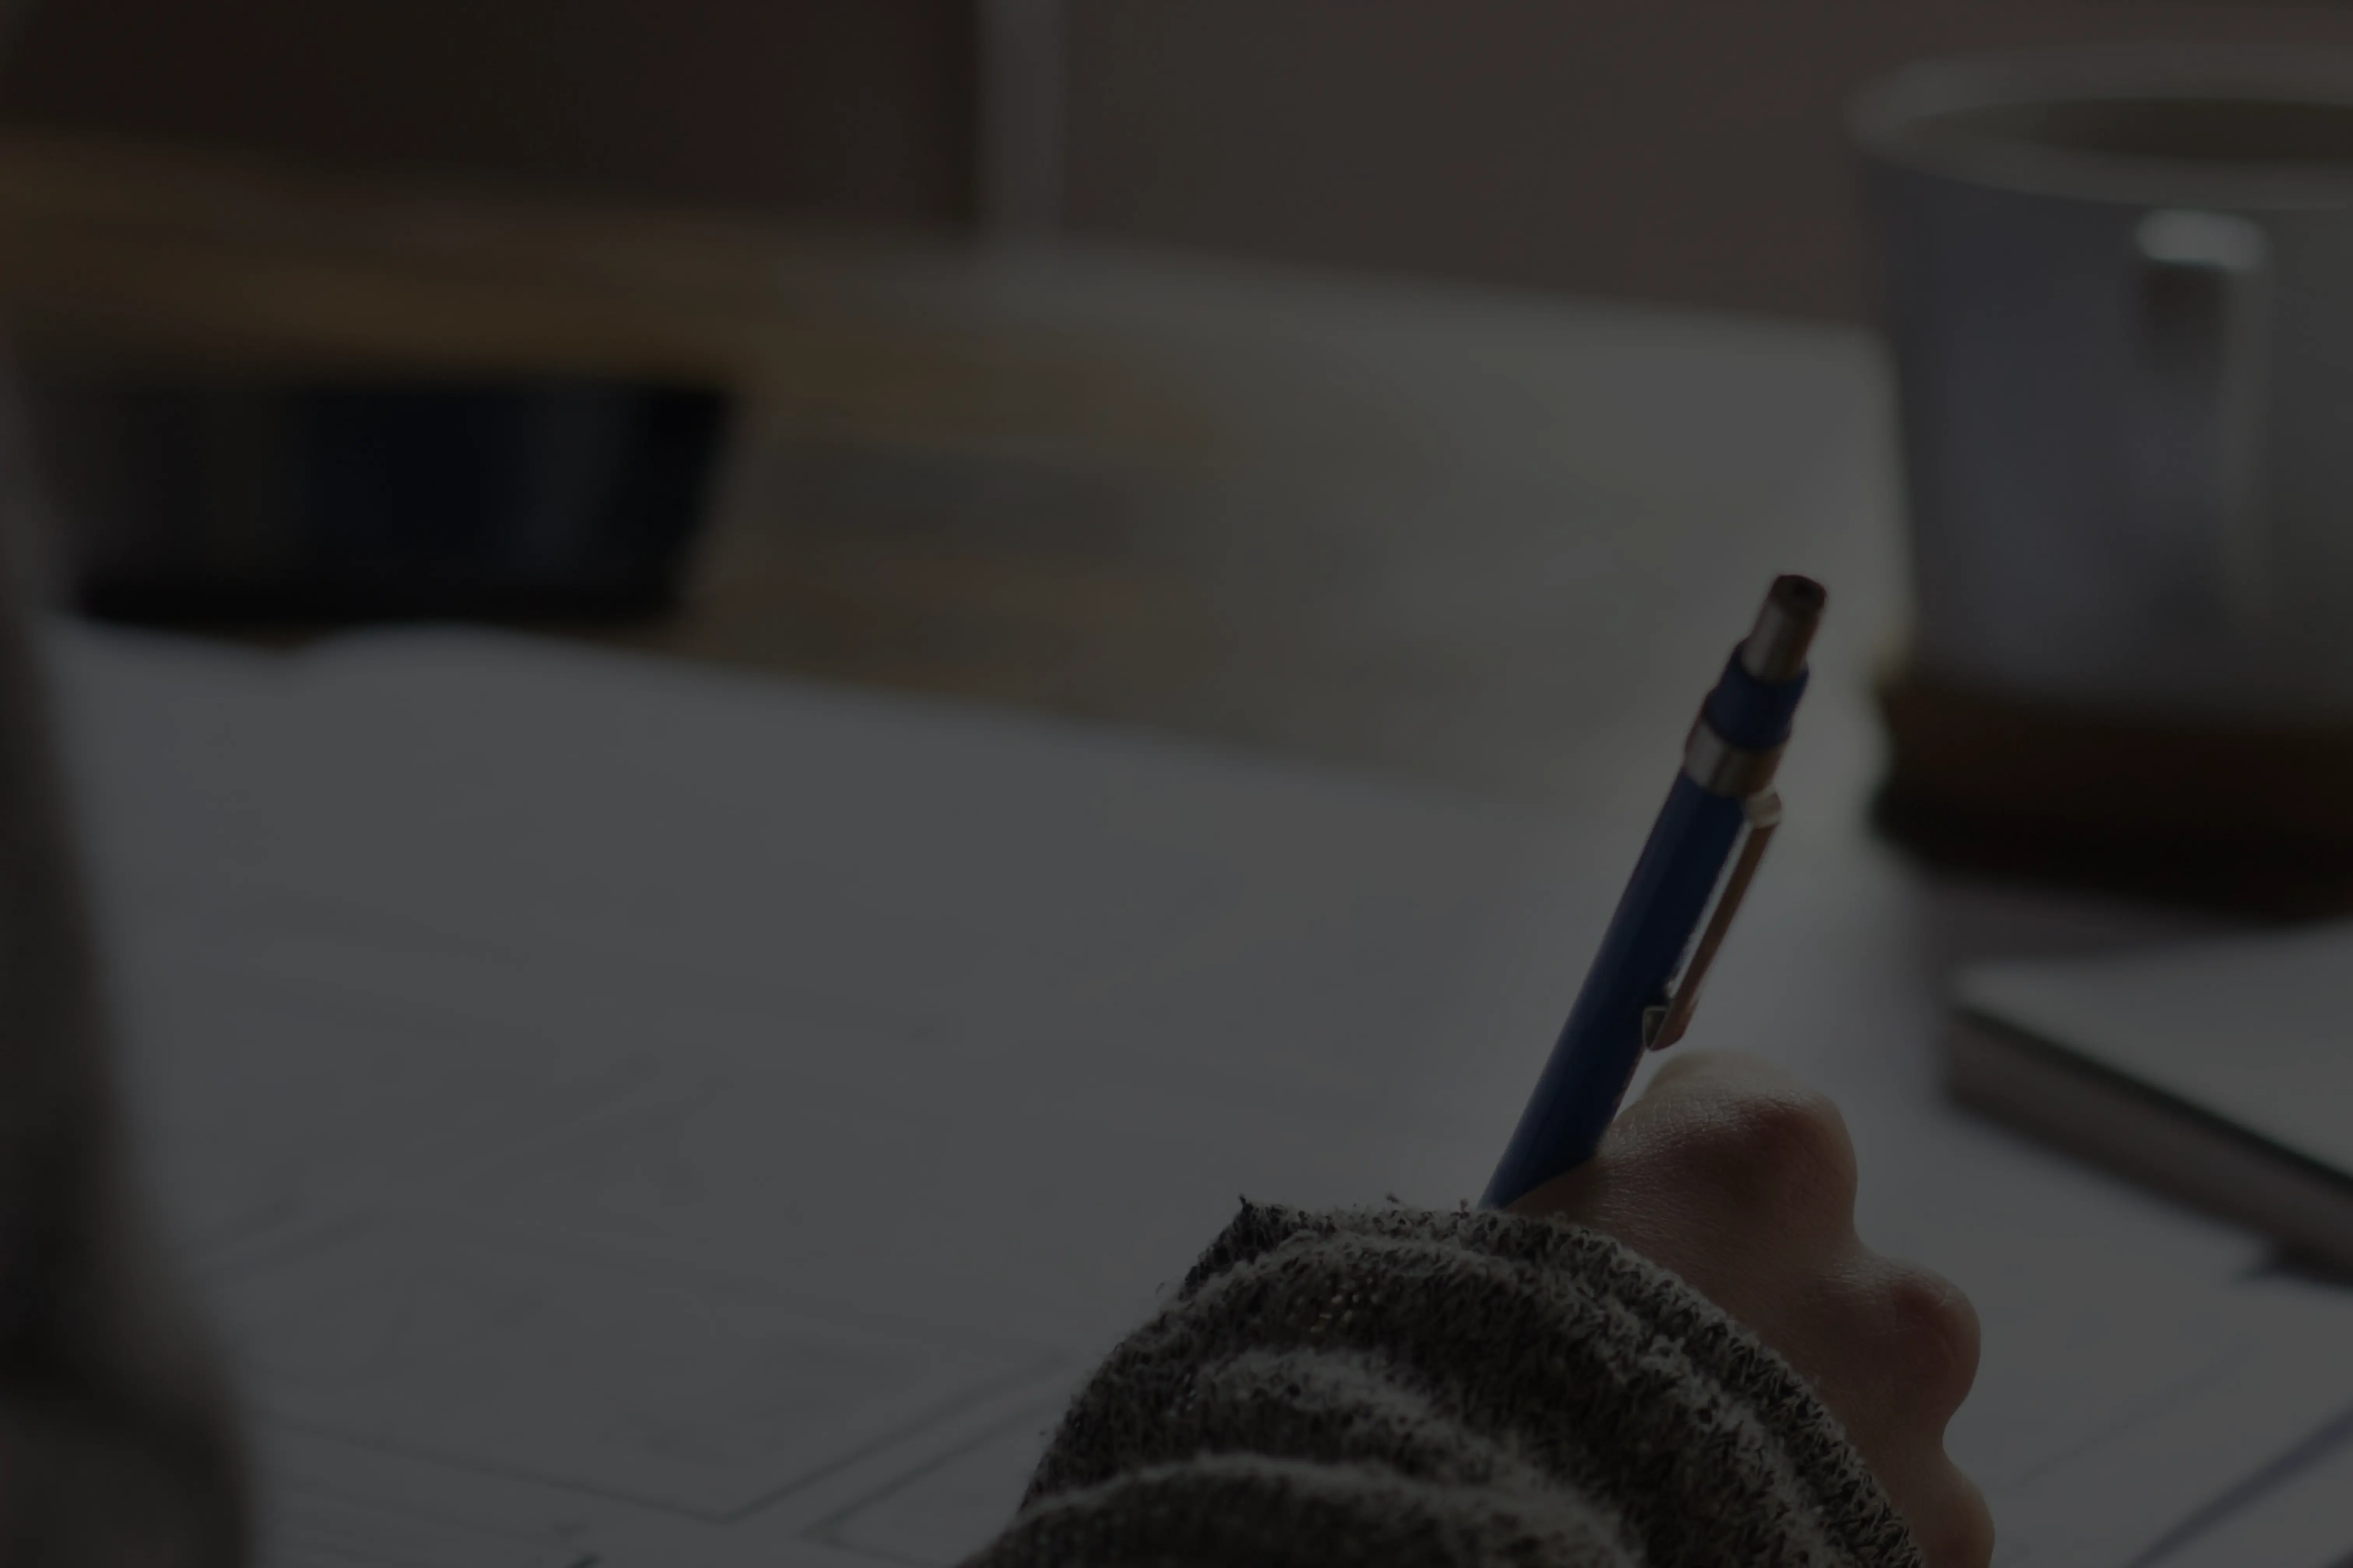
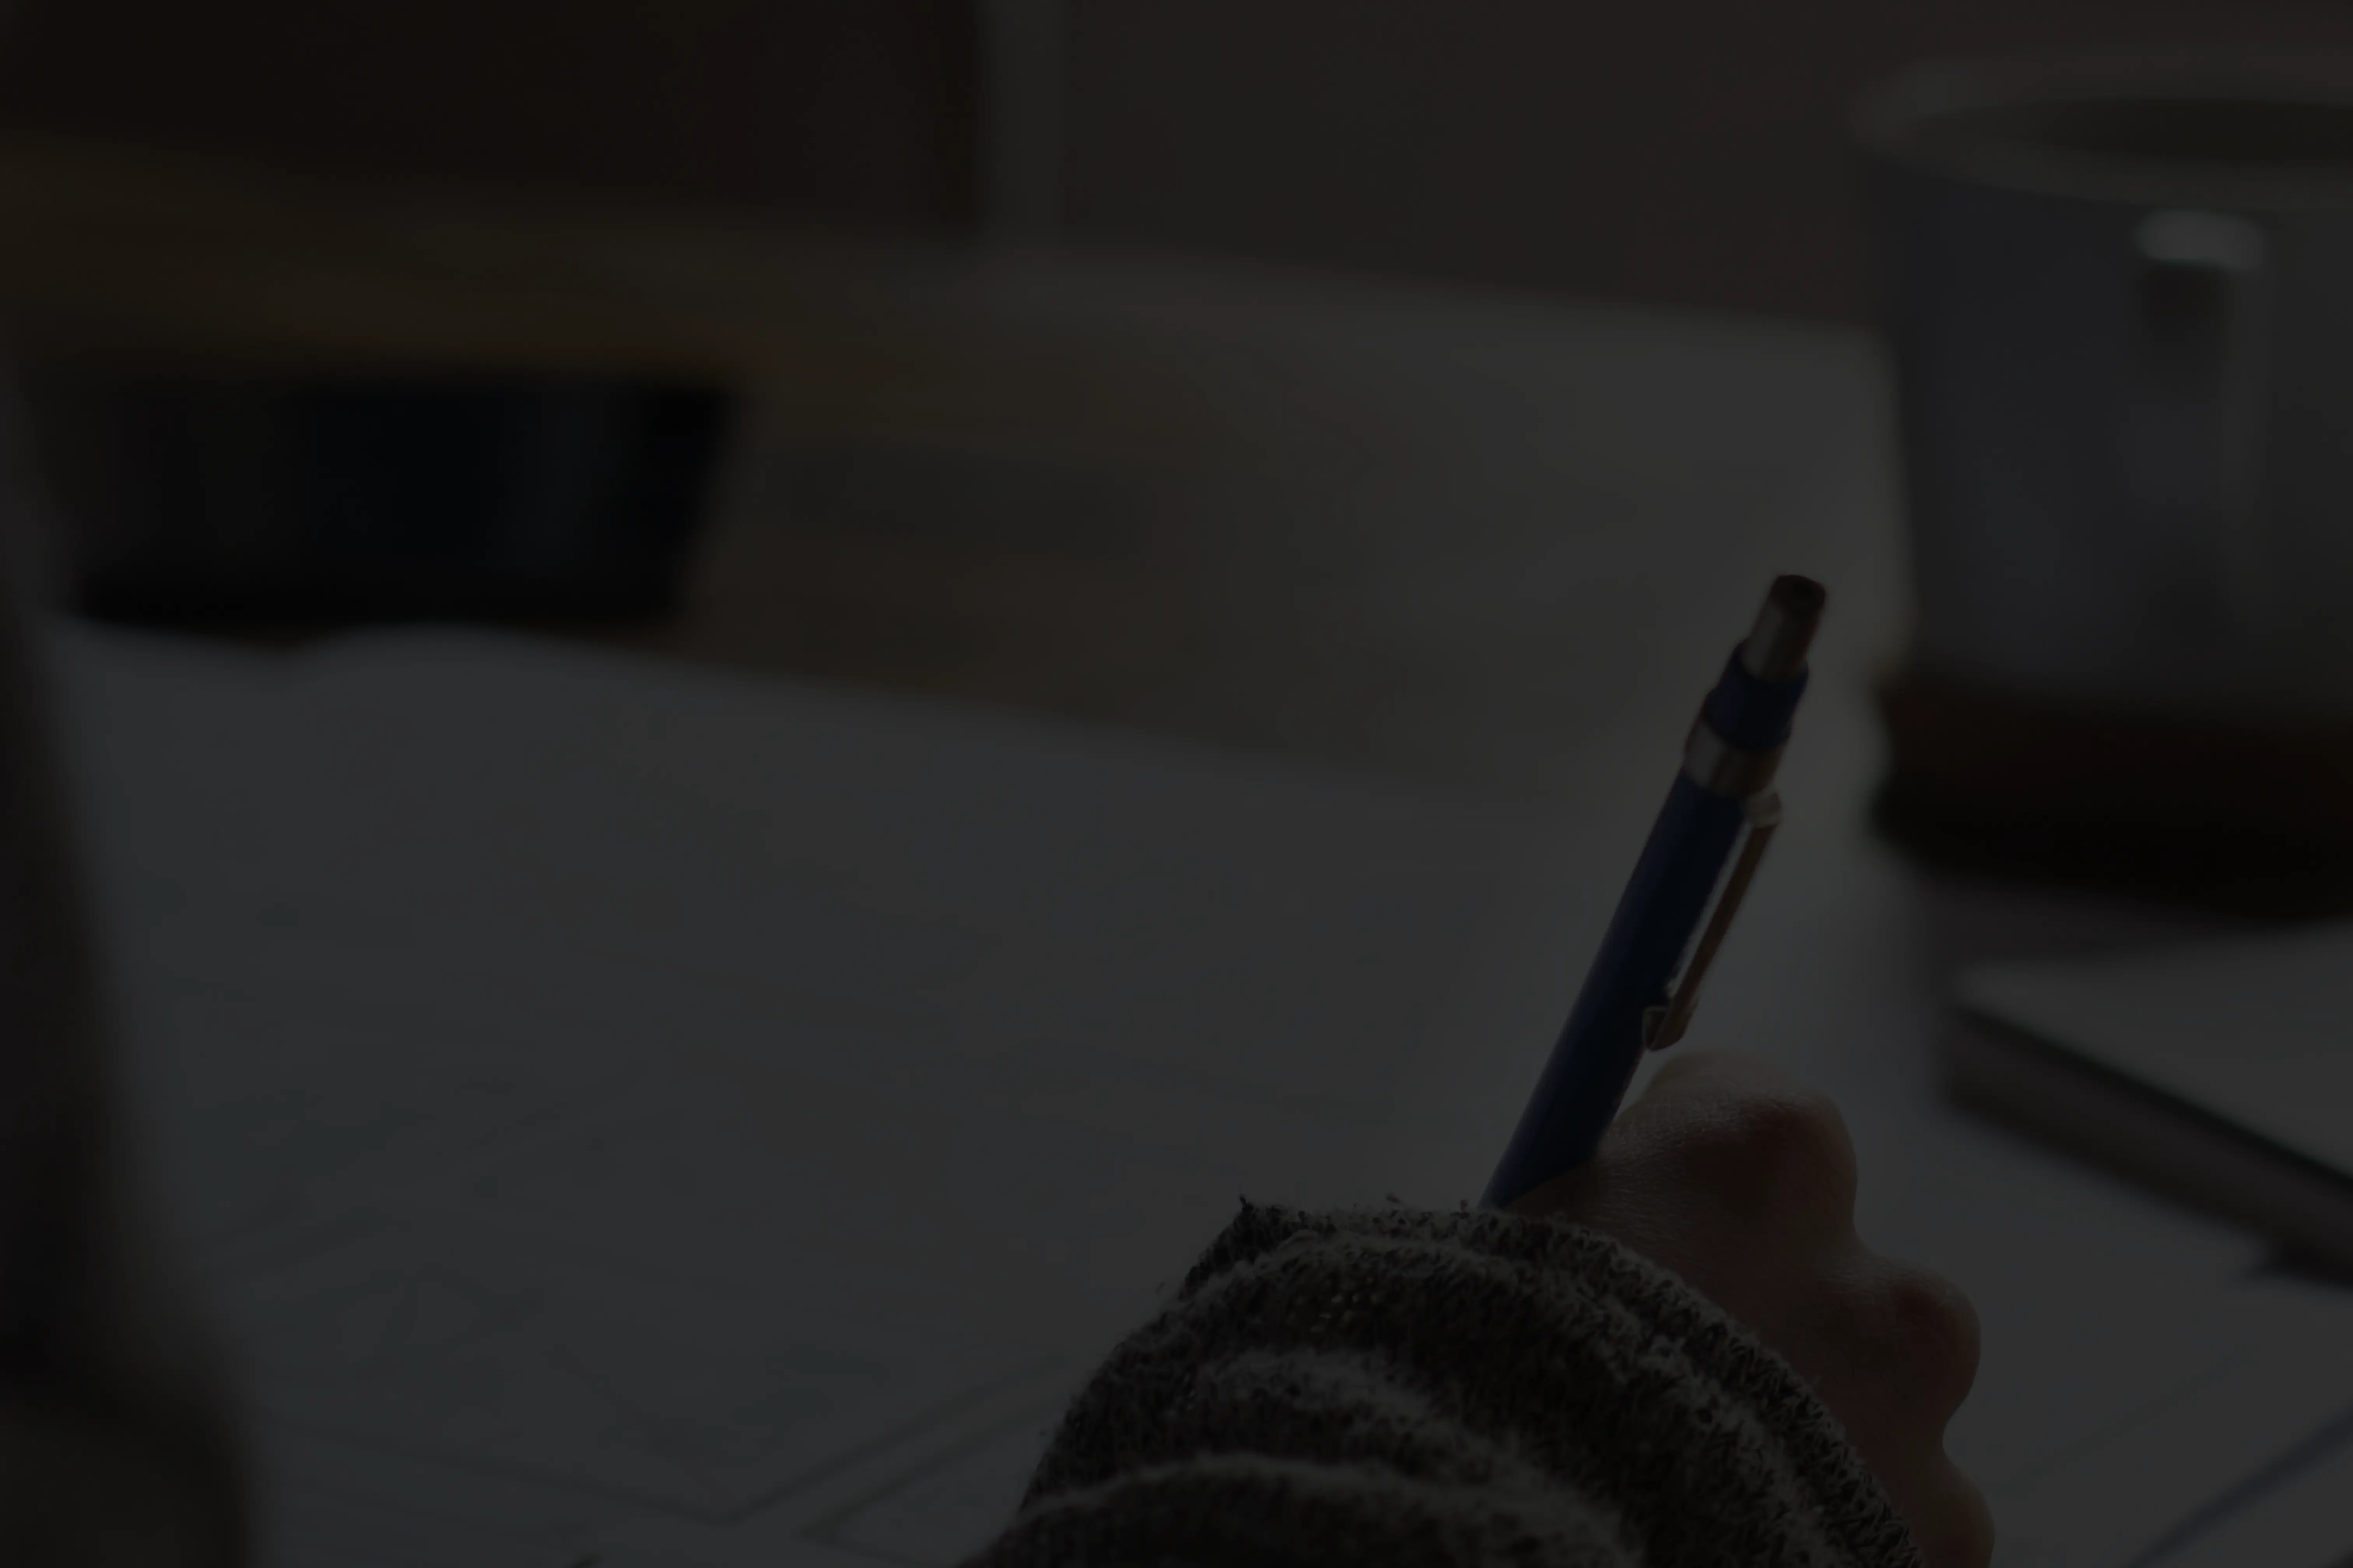
Updating background image to be darker. Also fixed quote issue.

diff --git a/src/app/page.tsx b/src/app/page.tsx
@@ -175,7 +175,7 @@ export default function Home() {
         <div className="w-full hidden md:flex items-center justify-center">
           <Carousel quotes={quotes} />
         </div>
-        <div className="mx-4">
+        <div className="mx-4 md:hidden">
           <Quote {...quotes[0]} />
         </div>
         {/* <div className="w-[350px] flex flex-col items-center gap-12 lg:gap-20 pb-4">
